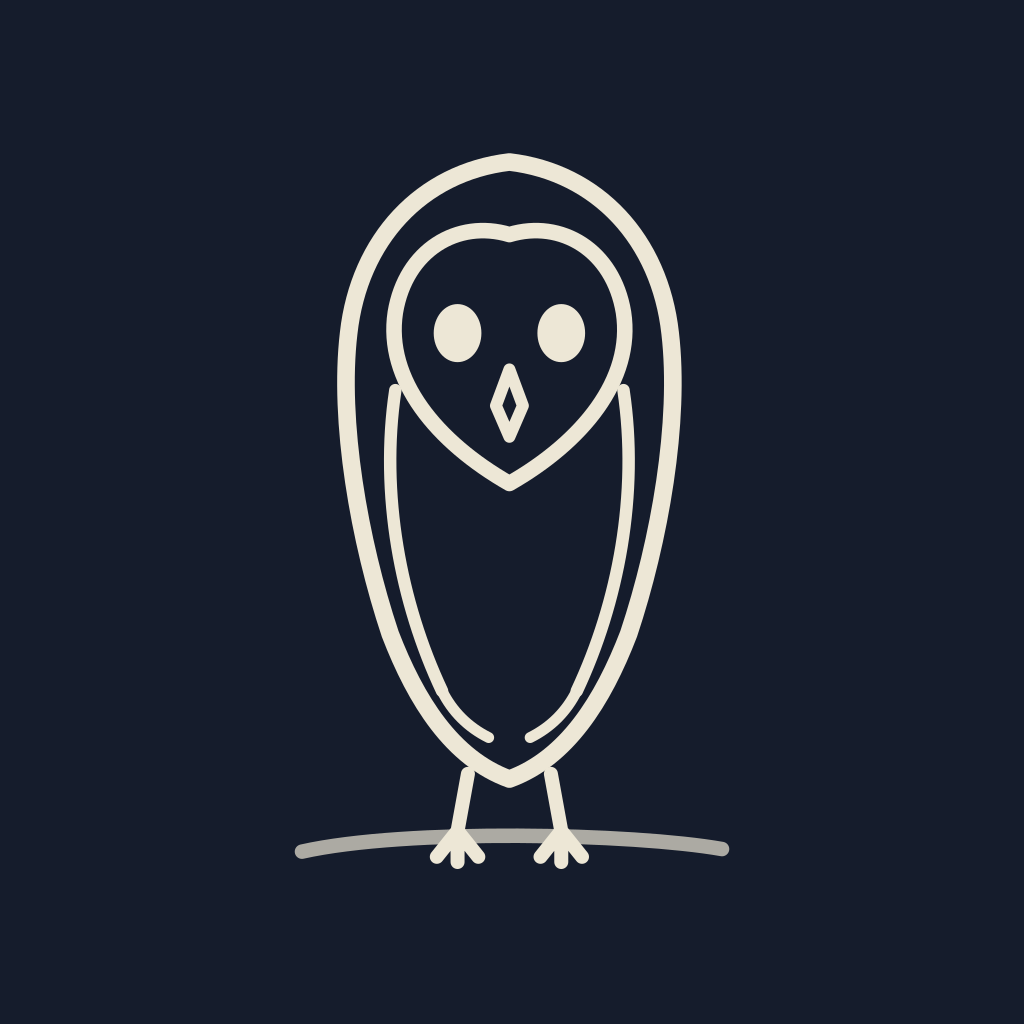
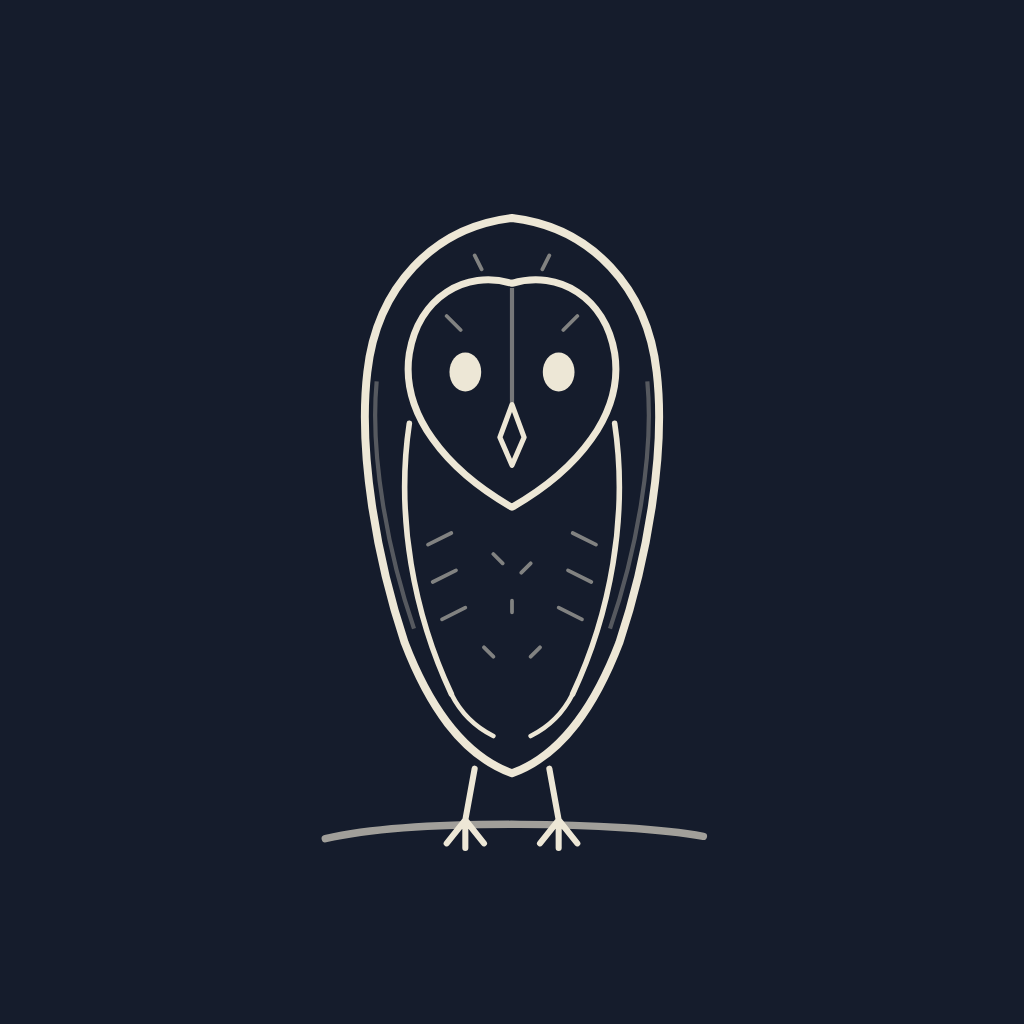
Add files via upload

Changed region(s): [[0.2812, 0.125, 0.7188, 0.8438]]

diff --git a/lib/widgets/compte_fenetre_email.dart b/lib/widgets/compte_fenetre_email.dart
@@ -59,6 +59,9 @@ class FenetreCreerCompte extends StatefulWidget {
 
 class _FenetreCreerCompteState extends State<FenetreCreerCompte> {
   final _email = TextEditingController();
+  final _motDePasse = TextEditingController();
+  // Par défaut : e-mail + mot de passe. L'autre choix : un simple lien par e-mail.
+  bool _modeLien = false;
   bool _envoi = false;
   bool _envoye = false;
   bool _fermee = false;
@@ -70,6 +73,7 @@ class _FenetreCreerCompteState extends State<FenetreCreerCompte> {
     super.initState();
     // Le bouton doré reste pâle tant que le champ est vide.
     _email.addListener(_maj);
+    _motDePasse.addListener(_maj);
     // Dès qu'un vrai compte est ouvert (retour de Google, lien confirmé),
     // la fenêtre n'a plus lieu d'être.
     _sub = AuthService.onAuthStateChange.listen((_) {
@@ -86,7 +90,9 @@ class _FenetreCreerCompteState extends State<FenetreCreerCompte> {
   void dispose() {
     _sub?.cancel();
     _email.removeListener(_maj);
+    _motDePasse.removeListener(_maj);
     _email.dispose();
+    _motDePasse.dispose();
     super.dispose();
   }
 
@@ -102,6 +108,11 @@ class _FenetreCreerCompteState extends State<FenetreCreerCompte> {
   Future<void> _creer() async {
     final valeur = _email.text.trim();
     if (valeur.isEmpty || _envoi) return;
+    final mdp = _motDePasse.text;
+    if (!_modeLien && mdp.length < 8) {
+      setState(() => _erreur = "Choisis un mot de passe d'au moins 8 caractères.");
+      return;
+    }
     setState(() {
       _envoi = true;
       _erreur = null;
@@ -109,7 +120,7 @@ class _FenetreCreerCompteState extends State<FenetreCreerCompte> {
     String? message;
     try {
       await Supabase.instance.client.auth.updateUser(
-        UserAttributes(email: valeur),
+        _modeLien ? UserAttributes(email: valeur) : UserAttributes(email: valeur, password: mdp),
         emailRedirectTo: _redirection,
       );
     } on AuthException catch (e) {
@@ -165,7 +176,7 @@ class _FenetreCreerCompteState extends State<FenetreCreerCompte> {
   TextStyle get _titre => TytoText.display(size: 19, color: TytoColors.encre);
 
   Widget _formulaire() {
-    final vide = _email.text.trim().isEmpty || _envoi;
+    final vide = _email.text.trim().isEmpty || _envoi || (!_modeLien && _motDePasse.text.isEmpty);
     return Column(
       mainAxisSize: MainAxisSize.min,
       crossAxisAlignment: CrossAxisAlignment.stretch,
@@ -200,6 +211,22 @@ class _FenetreCreerCompteState extends State<FenetreCreerCompte> {
             padding: const EdgeInsets.symmetric(horizontal: 13, vertical: 11),
           ),
         ),
+        if (!_modeLien) ...[
+          const SizedBox(height: 10),
+          TextField(
+            controller: _motDePasse,
+            obscureText: true,
+            autofillHints: const [AutofillHints.newPassword],
+            style: TytoText.ui(size: 15, weight: FontWeight.w400, color: TytoColors.encre),
+            cursorColor: TytoColors.encre,
+            onSubmitted: (_) => _creer(),
+            decoration: decorationChampPapier(
+              indication: 'Mot de passe (8 caractères min.)',
+              taille: 15,
+              padding: const EdgeInsets.symmetric(horizontal: 13, vertical: 11),
+            ),
+          ),
+        ],
         const SizedBox(height: 10),
         BoutonDore(
           texte: _envoi ? 'Envoi…' : 'Créer mon compte gratuit',
@@ -215,6 +242,14 @@ class _FenetreCreerCompteState extends State<FenetreCreerCompte> {
           ),
         ],
         const SizedBox(height: 12),
+        LienDiscret(
+          texte: _modeLien ? 'Créer avec un mot de passe' : 'Sans mot de passe : recevoir un lien par e-mail',
+          onTap: () => setState(() {
+            _modeLien = !_modeLien;
+            _erreur = null;
+          }),
+        ),
+        const SizedBox(height: 8),
         LienDiscret(texte: 'Déjà inscrit ? Se connecter', onTap: _seConnecter),
       ],
     );

diff --git a/lib/widgets/owl_sketch.dart b/lib/widgets/owl_sketch.dart
@@ -10,6 +10,10 @@ class OwlSketch extends StatefulWidget {
   final double size;
   final Color ink;
 
+  /// La couleur des yeux (par défaut la même que le trait). Sert par exemple
+  /// à avoir des yeux dorés sur un logo ivoire.
+  final Color? eyeColor;
+
   /// Les petits détails (perchoir, pattes, plumes). Sur le site, ils sont
   /// affichés par défaut ; on peut les retirer aux très petites tailles.
   final bool detail;
@@ -22,6 +26,7 @@ class OwlSketch extends StatefulWidget {
     super.key,
     this.size = 40,
     this.ink = TytoColors.lune,
+    this.eyeColor,
     this.detail = true,
     this.thinking = false,
   });
@@ -75,6 +80,9 @@ class _OwlSketchState extends State<OwlSketch> with SingleTickerProviderStateMix
   }
 
   String _svg(String hex, double ouverture) {
+    final yeux = widget.eyeColor == null
+        ? hex
+        : '#${widget.eyeColor!.value.toRadixString(16).padLeft(8, '0').substring(2)}';
     final perch = widget.detail
         ? '<path d="M20 145 C40 140.5, 84 141.5, 101 144.5" stroke="$hex" stroke-width="1.6" stroke-linecap="round" opacity="0.65" />'
         : '';
@@ -111,8 +119,8 @@ class _OwlSketchState extends State<OwlSketch> with SingleTickerProviderStateMix
   <path d="M60 26 C50 23, 40 29, 38 41 C36 54, 46 66, 60 74 C74 66, 84 54, 82 41 C80 29, 70 23, 60 26 Z"
         stroke="$hex" stroke-width="1.5" stroke-linecap="round" stroke-linejoin="round" />
   <path d="M60 27 L60 52" stroke="$hex" stroke-width="0.9" opacity="0.45" />
-  <ellipse cx="50" cy="45" rx="3.4" ry="${(4.2 * ouverture).toStringAsFixed(2)}" fill="$hex" />
-  <ellipse cx="70" cy="45" rx="3.4" ry="${(4.2 * ouverture).toStringAsFixed(2)}" fill="$hex" />
+  <ellipse cx="50" cy="45" rx="3.4" ry="${(4.2 * ouverture).toStringAsFixed(2)}" fill="$yeux" />
+  <ellipse cx="70" cy="45" rx="3.4" ry="${(4.2 * ouverture).toStringAsFixed(2)}" fill="$yeux" />
   <path d="M60 52 L57.4 59 L60 65 L62.6 59 Z" stroke="$hex" stroke-width="1.1" stroke-linejoin="round" />
   $plumes
   $pattes

diff --git a/lib/screens/login_screen.dart b/lib/screens/login_screen.dart
@@ -24,7 +24,9 @@ class _LoginScreenState extends State<LoginScreen> {
   final _passwordController = TextEditingController();
   bool _sending = false;
   bool _linkSent = false;
-  bool _modeMotDePasse = false; // replié par défaut
+  // L'écran s'ouvre sur e-mail + mot de passe ; le lien de connexion par
+  // e-mail reste juste en dessous.
+  bool _modeMotDePasse = true;
   String? _errorMessage;
   StreamSubscription<AuthState>? _sub;
 
@@ -80,7 +82,7 @@ class _LoginScreenState extends State<LoginScreen> {
     }
   }
 
-  /// Connexion directe par mot de passe — sert au compte d'examen Google.
+  /// Connexion par e-mail et mot de passe.
   Future<void> _connexionMotDePasse() async {
     final email = _emailController.text.trim();
     final motDePasse = _passwordController.text;
@@ -296,16 +298,17 @@ class _LoginScreenState extends State<LoginScreen> {
         Wrap(
           alignment: WrapAlignment.center,
           crossAxisAlignment: WrapCrossAlignment.end,
+          spacing: 16,
+          runSpacing: 8,
           children: [
-            // Le lien reste discret : il ne sert qu'au compte d'examen de
-            // Google, pas aux vrais utilisateurs.
             _lien(
-              _modeMotDePasse ? 'Revenir au lien de connexion' : 'Se connecter avec un mot de passe',
+              _modeMotDePasse ? 'Recevoir un lien de connexion par e-mail' : 'Se connecter avec un mot de passe',
               () => setState(() {
                 _modeMotDePasse = !_modeMotDePasse;
                 _errorMessage = null;
               }),
             ),
+            _lien('Créer un compte', () => FenetreCreerCompte.afficher(context)),
             // L'écran s'ouvre par-dessus Tyto : on peut y revenir sans se connecter.
             if (retour)
               Padding(

diff --git a/lib/main.dart b/lib/main.dart
@@ -44,6 +44,30 @@ class TytoScrollBehavior extends MaterialScrollBehavior {
   }
 }
 
+/// Une transition de page classique, mais l'écran qui arrive est posé sur un
+/// fond opaque (le même dégradé que le site), pour masquer l'écran précédent.
+class _TransitionOpaque extends PageTransitionsBuilder {
+  final PageTransitionsBuilder base;
+  const _TransitionOpaque(this.base);
+
+  @override
+  Widget buildTransitions<T>(
+    PageRoute<T> route,
+    BuildContext context,
+    Animation<double> animation,
+    Animation<double> secondaryAnimation,
+    Widget child,
+  ) {
+    return base.buildTransitions<T>(
+      route,
+      context,
+      animation,
+      secondaryAnimation,
+      TytoBackground(child: child),
+    );
+  }
+}
+
 class TytoApp extends StatelessWidget {
   const TytoApp({super.key});
 
@@ -59,6 +83,13 @@ class TytoApp extends StatelessWidget {
       theme: ThemeData(
         useMaterial3: true,
         scaffoldBackgroundColor: Colors.transparent,
+        // Les écrans sont transparents (le fond est posé derrière) : sans ça,
+        // l'ancien écran restait visible pendant la transition. Chaque
+        // nouvel écran arrive donc avec son propre fond, opaque.
+        pageTransitionsTheme: const PageTransitionsTheme(builders: {
+          TargetPlatform.iOS: _TransitionOpaque(CupertinoPageTransitionsBuilder()),
+          TargetPlatform.android: _TransitionOpaque(FadeUpwardsPageTransitionsBuilder()),
+        }),
         colorScheme: ColorScheme.dark(
           primary: TytoColors.fauve,
           secondary: TytoColors.fauve,

diff --git a/lib/screens/chat_screen.dart b/lib/screens/chat_screen.dart
@@ -501,7 +501,13 @@ class _ChatScreenState extends State<ChatScreen> with SingleTickerProviderStateM
         child: Column(
           mainAxisSize: MainAxisSize.min,
           children: [
+            const SizedBox(height: 20),
+            // Le logo aux yeux dorés (qui clignent comme partout), puis le nom
+            // de la fonction, centrés au-dessus des deux choix.
+            const OwlSketch(size: 52, eyeColor: TytoColors.fauve),
             const SizedBox(height: 8),
+            Text("L'œil de Tyto", style: TytoText.display(size: 19, color: TytoColors.lune)),
+            const SizedBox(height: 14),
             ListTile(
               leading: SiteIcon('IconCamera', size: 22, color: TytoColors.lune),
               title: Text('Prendre une photo', style: TytoText.ui(color: TytoColors.lune)),
